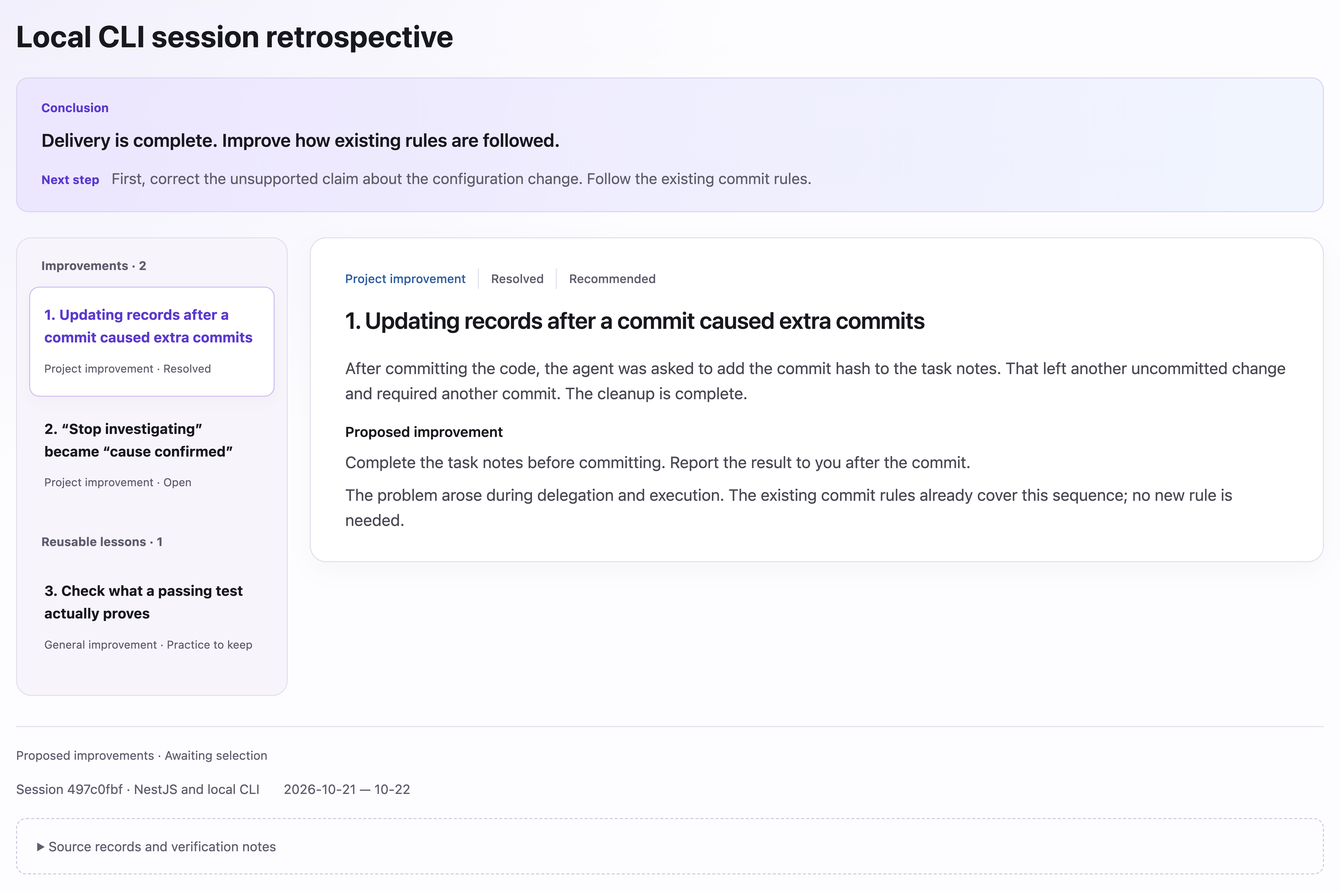
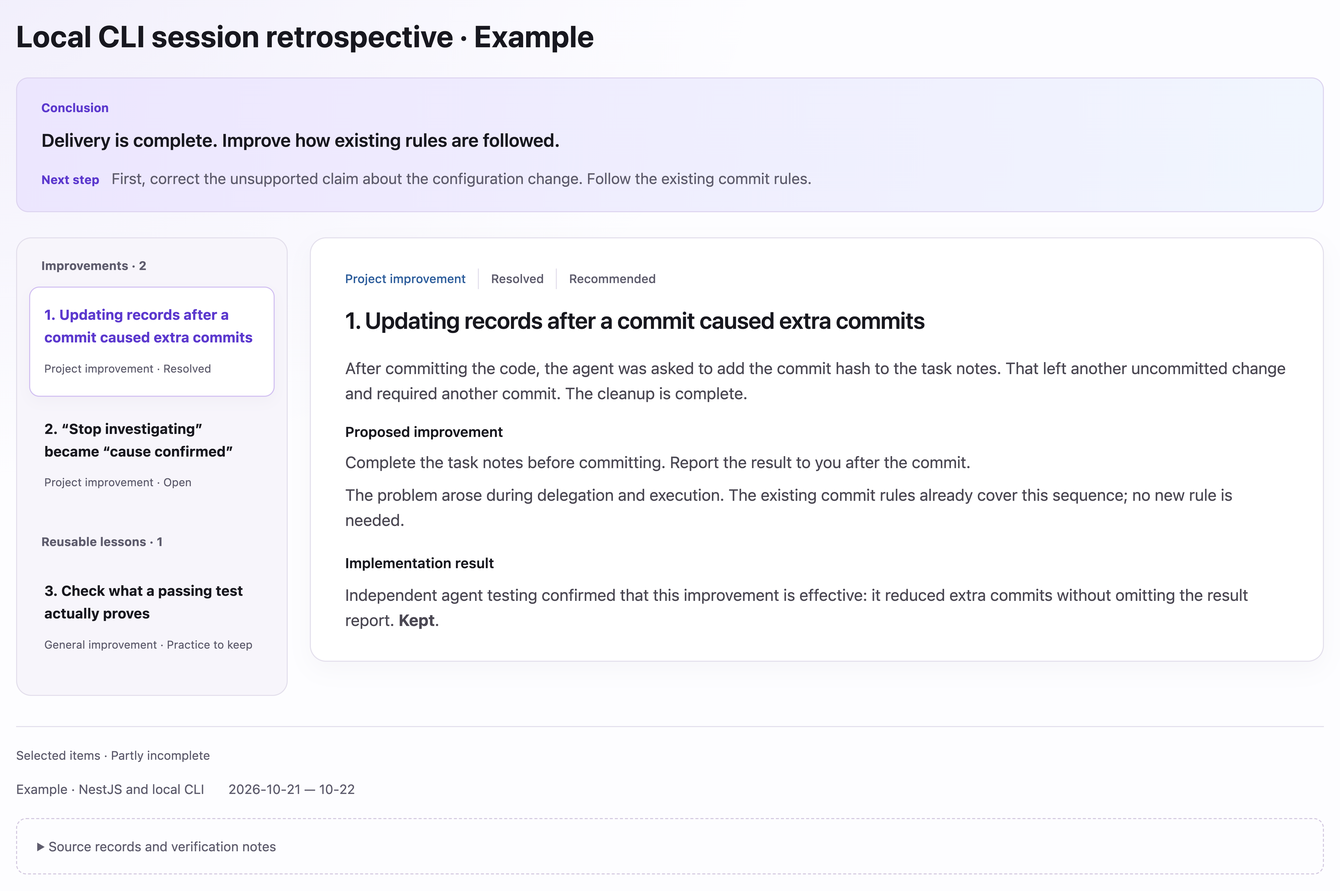
feat(retro): verify improvements and report outcomes

Changed region(s): [[0.2492, 0.6208, 0.9347, 0.7139], [0.0312, 0.838, 0.2492, 0.9001], [0.3427, 0.031, 0.4362, 0.0621]]

diff --git a/skills/engineering/td-coding-retro/assets/report-example.en.html b/skills/engineering/td-coding-retro/assets/report-example.en.html
@@ -7,7 +7,7 @@
       http-equiv="Content-Security-Policy"
       content="default-src 'none'; style-src 'unsafe-inline'; script-src 'unsafe-inline'; base-uri 'none'; form-action 'none'"
     />
-    <title>Local CLI session retrospective</title>
+    <title>Local CLI session retrospective · Example</title>
     <style>
       :root {
         color-scheme: light;
@@ -246,6 +246,7 @@
         border-left: 1px solid var(--line);
         padding-left: 12px;
       }
+      .implementation-result { margin-top: 18px; }
       .proposal-heading { display:flex; align-items:baseline; flex-wrap:wrap; gap:12px; margin-bottom:6px; }
       .proposal-heading h3 { font-size:14px; font-weight:600; }
       .proposal-heading span { font-size:12px; color:var(--muted); }
@@ -498,7 +499,7 @@
   <body>
     <main>
       <header class="report-header">
-        <h1>Local CLI session retrospective</h1>
+        <h1>Local CLI session retrospective · Example</h1>
       </header>
       <section class="banner" aria-labelledby="conclusion-heading">
         <h2 id="conclusion-heading">Conclusion</h2>
@@ -509,22 +510,22 @@
 <header class="detail-top"><div class="kicker"><span class="tag project">Project improvement</span><span class="tag state">Resolved</span><span class="tag verdict">Recommended</span></div>
 <h2 id="heading-1"><span class="item-number">1.</span> Updating records after a commit caused extra commits</h2><p>After committing the code, the agent was asked to add the commit hash to the task notes. That left another uncommitted change and required another commit. The cleanup is complete.</p></header>
 <div class="detail-body"><div class="proposal-heading"><h3>Proposed improvement</h3></div><p class="proposal">Complete the task notes before committing. Report the result to you after the commit.</p>
-<p class="rationale">The problem arose during delegation and execution. The existing commit rules already cover this sequence; no new rule is needed.</p></div></article><article class="detail" id="finding-2" aria-labelledby="heading-2">
+<p class="rationale">The problem arose during delegation and execution. The existing commit rules already cover this sequence; no new rule is needed.</p><section class="implementation-result" aria-label="Implementation result"><div class="proposal-heading"><h3>Implementation result</h3></div><p class="rationale">Independent agent testing confirmed that this improvement is effective: it reduced extra commits without omitting the result report. <strong>Kept</strong>.</p></section></div></article><article class="detail" id="finding-2" aria-labelledby="heading-2">
 <header class="detail-top"><div class="kicker"><span class="tag project">Project improvement</span><span class="tag state">Open</span><span class="tag verdict">Recommended</span></div>
 <h2 id="heading-2"><span class="item-number">2.</span> “Stop investigating” became “cause confirmed”</h2><p>The user said they had been using the apps and did not need further investigation. This does not establish that the configuration change was unrelated to the task.</p></header>
 <div class="detail-body"><div class="proposal-heading"><h3>Proposed improvement</h3></div><p class="proposal">Update the record to: “The source is unknown; the user chose not to investigate further.”</p>
-<p class="rationale">Correct the attribution in the current task overview to reflect the available evidence. No further investigation is proposed.</p></div></article><article class="detail" id="finding-3" aria-labelledby="heading-3">
+<p class="rationale">Correct the attribution in the current task overview to reflect the available evidence. No further investigation is proposed.</p><section class="implementation-result" aria-label="Implementation result"><div class="proposal-heading"><h3>Implementation result</h3></div><p class="rationale">Independent agent testing found this improvement ineffective: the revised record still presented an unknown cause as confirmed. <strong>Rolled back</strong>. The incorrect attribution still needs correction.</p></section></div></article><article class="detail" id="finding-3" aria-labelledby="heading-3">
 <header class="detail-top"><div class="kicker"><span class="tag">General improvement</span><span class="tag state">Practice to keep</span><span class="tag verdict">Recommended</span></div>
 <h2 id="heading-3"><span class="item-number">3.</span> Check what a passing test actually proves</h2><p>Independent verification found that concurrent test doubles returned identical results. A passing test could not establish that outputs stayed isolated.</p></header>
 <div class="detail-body"><div class="proposal-heading"><h3>Proposed improvement</h3></div><p class="proposal">Keep checking assertions against the intended behavior and use counterexamples to test their sensitivity.</p>
-<p class="rationale">Distinct execution data lets assertions detect mixed outputs. Use this example to explain the existing verification guidance.</p><section class="pattern" aria-label="Examples"><h3>Examples</h3>
+<p class="rationale">Distinct execution data lets assertions detect mixed outputs. Use this example to explain the existing verification guidance.</p><section class="implementation-result" aria-label="Implementation result"><div class="proposal-heading"><h3>Implementation result</h3></div><p class="rationale">An independent agent could not confirm effectiveness: no evidence showed that the new test detects mixed outputs. <strong>Rolled back</strong>.</p></section><section class="pattern" aria-label="Examples"><h3>Examples</h3>
 <p class="situation">Tests use doubles and need to establish isolation between executions.</p><div class="contrast"><div class="example negative"><h4>Counterexample</h4><p>Every execution returns the same ID and text, so assertions cannot distinguish the source.</p></div><div class="example positive"><h4>Positive practice — see evidence status</h4><p>Use distinct execution data and assertions against mixed outputs, then verify independently.</p></div></div>
 <dl class="boundaries"><dt>Evidence status</dt><dd>Session records contain the finding, the requested test changes and subsequent verification. Tests were not rerun for this report.</dd>
 <dt>Applicability</dt><dd>Applies to isolation tests; this does not justify adding the same check to every task.</dd></dl></section></div></article></div></div>
       <footer>
-        <p>Proposed improvements · Awaiting selection</p>
-        <div class="meta"><span>Session 497c0fbf · NestJS and local CLI</span><span>2026-10-21 — 10-22</span></div>
-        <details class="evidence"><summary>Source records and verification notes</summary><ul><li>1. F1 · Updating records after a commit caused extra commits：<a href="#evidence-item-E1">E1</a><small> · Retention: no addition; location: existing project commit rules</small></li><li>2. F2 · “Stop investigating” became “cause confirmed”：<a href="#evidence-item-E2">E2</a><small> · Retention: recommended; location: attribution in the current task overview</small></li><li>3. F3 · Check what a passing test actually proves：<a href="#evidence-item-E3">E3</a><small> · Retention: no addition; location: existing verification guidance</small></li></ul><article class="evidence-item" id="evidence-item-E1"><h3>E1 · Original excerpt</h3><p>s1-records.jsonl L944、L958、L989、L998</p><pre>Fill 07-submit.md with the actual commit hash and result. Do not push.</pre></article><article class="evidence-item" id="evidence-item-E2"><h3>E2 · Original excerpt</h3><p>s1-records.jsonl L756; attribution rewritten at L761</p><pre>全局配置变动那件事，还要你回复一下：09:58 前后、11:16 前后有没有用过 tcodex 或 Codex 应用。我一直在用，不用关心</pre></article><article class="evidence-item" id="evidence-item-E3"><h3>E3 · Original excerpt</h3><p>s1-records.jsonl L195; test changes requested at L210, subsequent verification at L790</p><pre>| AT1 isolation | Failed | UT3 passes. The IT2 concurrent case has no &quot;no cross-talk&quot; assertion |</pre></article></details>
+        <p>Selected items · Partly incomplete</p>
+        <div class="meta"><span>Example · NestJS and local CLI</span><span>2026-10-21 — 10-22</span></div>
+        <details class="evidence"><summary>Source records and verification notes</summary><p>Implementation results are constructed examples of wording and layout, not new tests of the historical project. Historical excerpts illustrate source attribution.</p><ul><li>1. F1 · Updating records after a commit caused extra commits：<a href="#evidence-item-E1">E1</a><small> · Retention: no addition; location: existing project commit rules</small></li><li>2. F2 · “Stop investigating” became “cause confirmed”：<a href="#evidence-item-E2">E2</a><small> · Retention: recommended; location: attribution in the current task overview</small></li><li>3. F3 · Check what a passing test actually proves：<a href="#evidence-item-E3">E3</a><small> · Retention: no addition; location: existing verification guidance</small></li></ul><article class="evidence-item" id="evidence-item-E1"><h3>E1 · Original excerpt</h3><p>s1-records.jsonl L944、L958、L989、L998</p><pre>Fill 07-submit.md with the actual commit hash and result. Do not push.</pre></article><article class="evidence-item" id="evidence-item-E2"><h3>E2 · Original excerpt</h3><p>s1-records.jsonl L756; attribution rewritten at L761</p><pre>全局配置变动那件事，还要你回复一下：09:58 前后、11:16 前后有没有用过 tcodex 或 Codex 应用。我一直在用，不用关心</pre></article><article class="evidence-item" id="evidence-item-E3"><h3>E3 · Original excerpt</h3><p>s1-records.jsonl L195; test changes requested at L210, subsequent verification at L790</p><pre>| AT1 isolation | Failed | UT3 passes. The IT2 concurrent case has no &quot;no cross-talk&quot; assertion |</pre></article></details>
       </footer>
     </main>
     <script>

diff --git a/skills/engineering/td-coding-retro/assets/report-example.html b/skills/engineering/td-coding-retro/assets/report-example.html
@@ -7,7 +7,7 @@
       http-equiv="Content-Security-Policy"
       content="default-src 'none'; style-src 'unsafe-inline'; script-src 'unsafe-inline'; base-uri 'none'; form-action 'none'"
     />
-    <title>本地 CLI 会话复盘</title>
+    <title>本地 CLI 会话复盘 · 示例</title>
     <style>
       :root {
         color-scheme: light;
@@ -246,6 +246,7 @@
         border-left: 1px solid var(--line);
         padding-left: 12px;
       }
+      .implementation-result { margin-top: 18px; }
       .proposal-heading { display:flex; align-items:baseline; flex-wrap:wrap; gap:12px; margin-bottom:6px; }
       .proposal-heading h3 { font-size:14px; font-weight:600; }
       .proposal-heading span { font-size:12px; color:var(--muted); }
@@ -498,7 +499,7 @@
   <body>
     <main>
       <header class="report-header">
-        <h1>本地 CLI 会话复盘</h1>
+        <h1>本地 CLI 会话复盘 · 示例</h1>
       </header>
       <section class="banner" aria-labelledby="conclusion-heading">
         <h2 id="conclusion-heading">本次结论</h2>
@@ -509,22 +510,22 @@
 <header class="detail-top"><div class="kicker"><span class="tag project">项目改进</span><span class="tag state">已处理</span><span class="tag verdict">推荐改进</span></div>
 <h2 id="heading-1"><span class="item-number">1.</span> 提交后补写编号，导致反复补提交</h2><p>Agent 提交代码后，又按要求把提交编号写进任务记录。记录因此再次出现未提交的修改，需要再提交一次。最后已经处理完毕。</p></header>
 <div class="detail-body"><div class="proposal-heading"><h3>改进方案</h3></div><p class="proposal">下次在提交前完成任务记录，提交后直接向你报告结果。</p>
-<p class="rationale">这次问题出在派发与执行环节。 现有提交规则已经要求这样做，因此不需要新增规则。</p></div></article><article class="detail" id="finding-2" aria-labelledby="heading-2">
+<p class="rationale">这次问题出在派发与执行环节。 现有提交规则已经要求这样做，因此不需要新增规则。</p><section class="implementation-result" aria-label="实施结果"><div class="proposal-heading"><h3>实施结果</h3></div><p class="rationale">经独立 Agent 验证，本项改进有效：减少了重复提交，且没有遗漏结果报告，<strong>已保留</strong>。</p></section></div></article><article class="detail" id="finding-2" aria-labelledby="heading-2">
 <header class="detail-top"><div class="kicker"><span class="tag project">项目改进</span><span class="tag state">未处理</span><span class="tag verdict">推荐改进</span></div>
 <h2 id="heading-2"><span class="item-number">2.</span> “不用追查”被写成“原因已查明”</h2><p>用户表示一直在使用相关应用、不必追查，不能据此证明配置变化与本任务无关。</p></header>
 <div class="detail-body"><div class="proposal-heading"><h3>改进方案</h3></div><p class="proposal">将记录改为“来源未确定，用户决定不再调查”。</p>
-<p class="rationale">只修正证据强度，不扩大调查。 建议修改当前任务 Overview 中的归因记录，不再调查配置变化。</p></div></article><article class="detail" id="finding-3" aria-labelledby="heading-3">
+<p class="rationale">只修正证据强度，不扩大调查。 建议修改当前任务 Overview 中的归因记录，不再调查配置变化。</p><section class="implementation-result" aria-label="实施结果"><div class="proposal-heading"><h3>实施结果</h3></div><p class="rationale">经独立 Agent 验证，本项改进无效：修改后的记录仍把未知原因写成确定结论，<strong>已回退</strong>。原记录的错误归因仍需修正。</p></section></div></article><article class="detail" id="finding-3" aria-labelledby="heading-3">
 <header class="detail-top"><div class="kicker"><span class="tag">通用改进</span><span class="tag state">经验保留</span><span class="tag verdict">推荐改进</span></div>
 <h2 id="heading-3"><span class="item-number">3.</span> 测试通过，还要检查它证明了什么</h2><p>独立验证发现：并发替身返回相同结果，测试通过也不能证明输出没有串线。</p></header>
 <div class="detail-body"><div class="proposal-heading"><h3>改进方案</h3></div><p class="proposal">保留按行为核对断言、用具体反例检查测试的做法。</p>
-<p class="rationale">可区分的执行数据，才能让断言发现输出串线。 无需为此增加验证规则；这个案例可用于解释已有验证规范。</p><section class="pattern" aria-label="正反例"><h3>正反例</h3>
+<p class="rationale">可区分的执行数据，才能让断言发现输出串线。 无需为此增加验证规则；这个案例可用于解释已有验证规范。</p><section class="implementation-result" aria-label="实施结果"><div class="proposal-heading"><h3>实施结果</h3></div><p class="rationale">经独立 Agent 核对，本项改进尚未证实有效：没有取得新测试能识别输出串线的证据，<strong>已回退</strong>。</p></section><section class="pattern" aria-label="正反例"><h3>正反例</h3>
 <p class="situation">测试使用替身，且需要证明多个执行互不干扰。</p><div class="contrast"><div class="example negative"><h4>反例</h4><p>所有执行返回相同标识和文本，断言无法区分结果来源。</p></div><div class="example positive"><h4>正向做法（以证据状态为准）</h4><p>后续补上可区分的执行数据与不串线断言，再独立复验。</p></div></div>
 <dl class="boundaries"><dt>证据状态</dt><dd>会话记录包含缺陷发现、补测要求及后续验证；本报告未重跑测试。</dd>
 <dt>适用边界</dt><dd>适用于隔离性测试；不能由此要求所有任务都增加同一种检查。</dd></dl></section></div></article></div></div>
       <footer>
-        <p>改进建议 · 待选择</p>
-        <div class="meta"><span>会话 497c0fbf · NestJS 与本地 CLI</span><span>2026-10-21 — 10-22</span></div>
-        <details class="evidence"><summary>原始记录与核验说明</summary><ul><li>1. F1 · 提交后补写编号，导致反复补提交：<a href="#evidence-item-E1">E1</a><small> · 沉淀：不新增；位置：项目现有提交规则</small></li><li>2. F2 · “不用追查”被写成“原因已查明”：<a href="#evidence-item-E2">E2</a><small> · 沉淀：推荐；位置：当前任务 Overview 的归因记录</small></li><li>3. F3 · 测试通过，还要检查它证明了什么：<a href="#evidence-item-E3">E3</a><small> · 沉淀：不新增；位置：已有验证规范</small></li></ul><article class="evidence-item" id="evidence-item-E1"><h3>E1 · 原文</h3><p>s1-records.jsonl L944、L958、L989、L998</p><pre>Fill 07-submit.md with the actual commit hash and result. Do not push.</pre></article><article class="evidence-item" id="evidence-item-E2"><h3>E2 · 原文</h3><p>s1-records.jsonl L756；归因改写见 L761</p><pre>全局配置变动那件事，还要你回复一下：09:58 前后、11:16 前后有没有用过 tcodex 或 Codex 应用。我一直在用，不用关心</pre></article><article class="evidence-item" id="evidence-item-E3"><h3>E3 · 原文</h3><p>s1-records.jsonl L195；补测要求 L210，后续验证 L790</p><pre>| AT1 isolation | Failed | UT3 passes. The IT2 concurrent case has no &quot;no cross-talk&quot; assertion |</pre></article></details>
+        <p>选定事项 · 部分未完成</p>
+        <div class="meta"><span>示例 · NestJS 与本地 CLI</span><span>2026-10-21 — 10-22</span></div>
+        <details class="evidence"><summary>原始记录与核验说明</summary><p>实施结果为构造的话术与版式示例，不表示重新测试了历史项目。历史摘录仅用于展示来源呈现方式。</p><ul><li>1. F1 · 提交后补写编号，导致反复补提交：<a href="#evidence-item-E1">E1</a><small> · 沉淀：不新增；位置：项目现有提交规则</small></li><li>2. F2 · “不用追查”被写成“原因已查明”：<a href="#evidence-item-E2">E2</a><small> · 沉淀：推荐；位置：当前任务 Overview 的归因记录</small></li><li>3. F3 · 测试通过，还要检查它证明了什么：<a href="#evidence-item-E3">E3</a><small> · 沉淀：不新增；位置：已有验证规范</small></li></ul><article class="evidence-item" id="evidence-item-E1"><h3>E1 · 原文</h3><p>s1-records.jsonl L944、L958、L989、L998</p><pre>Fill 07-submit.md with the actual commit hash and result. Do not push.</pre></article><article class="evidence-item" id="evidence-item-E2"><h3>E2 · 原文</h3><p>s1-records.jsonl L756；归因改写见 L761</p><pre>全局配置变动那件事，还要你回复一下：09:58 前后、11:16 前后有没有用过 tcodex 或 Codex 应用。我一直在用，不用关心</pre></article><article class="evidence-item" id="evidence-item-E3"><h3>E3 · 原文</h3><p>s1-records.jsonl L195；补测要求 L210，后续验证 L790</p><pre>| AT1 isolation | Failed | UT3 passes. The IT2 concurrent case has no &quot;no cross-talk&quot; assertion |</pre></article></details>
       </footer>
     </main>
     <script>

diff --git a/skills/engineering/td-coding-retro/assets/report.html b/skills/engineering/td-coding-retro/assets/report.html
@@ -246,6 +246,7 @@
         border-left: 1px solid var(--line);
         padding-left: 12px;
       }
+      .implementation-result { margin-top: 18px; }
       .proposal-heading { display:flex; align-items:baseline; flex-wrap:wrap; gap:12px; margin-bottom:6px; }
       .proposal-heading h3 { font-size:14px; font-weight:600; }
       .proposal-heading span { font-size:12px; color:var(--muted); }
@@ -508,7 +509,7 @@
       <aside class="limits"><h2>结论边界</h2><ul><li>{{影响判断的具体缺口}}</li></ul></aside>
       <div class="workbench">
         <nav class="item-nav" aria-label="选择复盘事项">
-          <!-- 按需复制组和 choice；经验组标题用“可复用经验”。编号跨组连续。 -->
+          <!-- 先分组排序再连续编号；已处理仍归改进事项，仅经验保留归可复用经验。编号跨组不重置。 -->
           <div class="nav-group"><h2>改进事项 · {{本组数量}}</h2>
             <a class="choice" href="#finding-1" aria-controls="finding-1"><strong><span class="item-number">1.</span> {{发现标题}}</strong><small>{{通用改进或项目改进}} · {{处理状态}}</small></a>
           </div>
@@ -525,6 +526,11 @@
               <div class="proposal-heading"><h3>改进方案</h3></div>
               <p class="proposal">{{具体建议}}</p>
               <p class="rationale">{{推荐或不推荐的原因，以及是否新增内容、写入何处}}</p>
+              <!-- 选定事项实施后填写；首次提出建议时删除整个 implementation-result。 -->
+              <section class="implementation-result" aria-label="实施结果">
+                <div class="proposal-heading"><h3>实施结果</h3></div>
+                <p class="rationale">{{实际验证方法与明确结论，如“经独立 Agent 验证，本项改进有效”}}：{{具体效果及必要的范围限制}}，<strong>{{已保留、已回退或验证未完成}}</strong>。</p>
+              </section>
               <!-- 无正反例时删除整个 pattern；只有一侧时删除另一侧 example。 -->
               <section class="pattern" aria-label="正反例"><h3>正反例</h3>
                 <p class="situation">{{适用情境}}</p>

diff --git a/skills/engineering/td-coding-retro/references/verify-improvements.md b/skills/engineering/td-coding-retro/references/verify-improvements.md
@@ -1,0 +1,54 @@
+# 改进效果验证
+
+用户选定报告事项后使用。目标是检验改动是否改善预期行为，并据此决定保留或回退。
+
+## 实施前
+
+逐项记录报告身份与编号、问题证据、改动位置、预期改善、通过标准、必须保留的行为、验证方法和回退范围。简单改动可以用几行记录，不另建整套任务模板；目标项目已有任务记录时沿用。
+
+标准在实施前确定，描述可观察的结果。例如：复现“提交后又改任务记录”的场景时，Agent 应在提交前完成记录，提交后无需再改受跟踪文件；同时仍能交代实际提交结果。不能把“新增一条规则”作为效果标准。
+
+证据是否充分，以预定标准、必要约束和本次宣称的效果范围判断。隔离场景已满足全部标准时，可报告该场景验证通过；只有具体未覆盖风险会影响结论时才补充验证。生产观察、长期跟踪和跨项目泛化按本项需要选择，不能为追求完整而事后增加门槛。恢复时发现标准是事后补定的，记录这一事实，并说明判断依据。
+
+保留涉及文件的改前副本或可定位版本，以及本次差异。回退只撤销本项改动，保留用户和其他任务的修改；重叠而无法安全拆开时报告具体冲突。多项改动有依赖时预先说明联合验证与回退范围，授权仍按用户选定事项核对。
+
+在看到验证结果前区分两种性质，并写明依据：
+
+- **实验性改进**：待验证收益的提示、组织方式、规则或流程调整。
+- **必要修正**：恢复已批准要求、修复已证实缺陷或满足明确安全约束。不能只因作者偏好标为必要。
+
+## 独立验证
+
+使用新上下文中的独立 Agent；切换作者口吻不算独立。给它选定事项、必要原始证据、预先确定的标准、改前版本、实际差异及相关项目材料；提供检查所需事实，不提供作者的成功判断。记录实际调用或会话标识、所检版本、方法、原始结果和结论，支持后续核对。
+
+选择足以检验预期行为的方法。复现原问题情境，并加入能暴露误用或副作用的场景；以实际输出、执行轨迹或可核对的产物判断。仅阅读新规则后说“看起来合理”，属于审查，不能证明行为已经改善。确定性缺陷可以用针对性检查直接验证；文本表达改善可以检查独立读者的理解和后续操作。
+
+需要比较效果时，可选 A/B：新旧版本使用相同原始任务材料和初始条件，在互不继承历史的上下文中运行；控制模型、工具和资源等条件，并记录无法控制的差异。用于设计的样例与新增验证样例分开记录；旧样例复测只能支持回归结论，不能证明泛化效果。存在明显随机性时增加独立运行，不把一次有利输出当作稳定收益。
+
+需要降低评审偏见时，隐藏候选来源和新旧身份、随机排列输出，再由独立评审按既定标准判断。若生成者也不知道版本身份，才称双盲；实际只能做到评审盲测时如实命名。A/B 和盲评均为可选方法，选用理由取决于本项验证需要。
+
+验证环境遵循目标项目的权限和分工；可使用隔离副本、模拟场景或获准的检查命令。独立上下文不等于环境隔离，不因此授权访问生产、修改真实数据或执行外部操作。
+
+## 决定保留还是回退
+
+| 结果 | 处理 |
+| --- | --- |
+| 达到通过标准，必要约束未退步 | 保留，说明具体改善及证据适用范围 |
+| 未改善或造成退步 | 撤销本项实现，核对回退结果；必要要求仍需满足，范围内可修复复验，不能恢复已知缺陷后声称完成 |
+| 证据不足 | 针对缺口补充验证；仍不足时，实验性改进回退，必要修正保留并明确已验证部分及剩余不确定性 |
+
+每项至多先补充一轮针对性验证或范围内修复；仍无结论或仍失败时按表处理并汇报。需要扩大范围、降低标准、额外权限或改换方案时交用户决定。标准确需改变时说明原因，按目标规则确认后重新验证。
+
+缺少独立 Agent、原始记录或必要运行条件，都属于验证未完成，不能宣称有效。必要修正的保留不等于验证通过；存在已证实退步时不能以“必要”为由保留失败实现。
+
+## 汇报
+
+用户选定的每个编号都有结果：已改进并保留、已回退、必要修正已保留但验证未完成，或因具体冲突无法安全处理。各用一句话说明依据，详细轨迹按需查阅。不得把所有“文件已改完”统一报成“改进有效”；全部选定事项处理后，再交用户选择是否尝试其他方案。
+
+更新原 HTML 报告前保留副本，读取现有内容和用户修改。保持原编号、发现、提案及历史处理状态，在选定事项的详情内补“实施结果”，先明确验证方法和有效性结论，再说具体效果与处理结果。例如：“经独立 Agent 验证，本项改进有效：减少了重复提交，且没有遗漏结果报告，已保留。”实际使用 A/B 或盲评时写对应方法，没有执行的方法不能列入；验证未完成时直接说明缺什么证据。完整调用标识、所检版本、原始结果与回退核对记录放到底部折叠区；记录本轮处理时间，保留原会话日期。无结果的事项不添加占位说明。
+
+结果句按“验证方法，本项改进有效／无效／尚未证实有效：具体效果或缺口，处理状态。”组织，先给结论，再解释。必要修正因环境缺失而未验证时用第三种。引用已有独立验证记录时可以写“根据已有独立 Agent 验证记录”，不能把他人执行写成本轮重跑。只读评审中拟写的“已保留／已回退”属于操作完成后的文案，实际处置未完成前标为待执行，不能直接发布为完成结果。
+
+保留项说明“哪些证据支持在什么范围内有效，因此保留”，必要修正证据未全时明确尚待验证。回退项区分“测试发现无改善或退步”与“证据不足、尚未证实有效”，分别交代原因；不能把证据不足写成已证明无效，也不能把预设样例中的有效前提当成本轮实验发现。正文沿用既有样式，开头验证方法与有效性结论、具体效果都用正常字重，仅句末“已保留／已回退／验证未完成”用 strong 加粗。标题只写“实施结果”，不另加标签、色块或徽章。
+
+同步顶部结论与页尾选择状态，使已完成、已回退和待处理事项准确对应；结果混合时逐项说明，不把已回退的事项计为已改进。保留模板样式和交互，重新检查切换与折叠。终端仅通知“第 1、3 项已改进，第 5 项已回退”及报告路径；存在未完成验证或冲突时同时简短点明。用户明确只需终端汇报时遵从。

diff --git a/skills/engineering/td-coding-retro/references/report-format.md b/skills/engineering/td-coding-retro/references/report-format.md
@@ -8,7 +8,7 @@
 2. **工作台**：左侧列出全部发现，按“改进事项”“可复用经验”分组，各组按重要性排序，按页面顺序连续编号 1、2、3…，跨组不重置。列表、详情和底部证据映射使用相同编号；编号对应本份报告，不能在用户选择后重新排序或套用另一份报告的编号。处理状态为“经验保留”的归后者，其余归前者；分类仍独立表示通用／项目。右侧依次显示：分类与状态 → 发现与影响 → 建议改进 → 为什么、沉淀建议及落点 → 正反例（如有）。正反例包含情境、证据状态和适用边界，保留单侧例子；不把待验证建议写成有效经验。同一发现只出现一次，不为填满两组而重复。
 3. **底部核验区**：一个默认折叠的“原始记录与核验说明”，集中保存发现与证据的对应关系、来源、原文或摘要，以及必要的核验过程说明。正文不出现日志编号或技术原文；会影响判断的限制和证据状态仍在正文可见。
 
-正文每句话必须帮助理解或选择。删除重复的品牌栏、页面身份和免责声明；报告标题已说明复盘，不再重复“会话复盘／本次复盘”。页尾仅用“改进建议 · 待选择”提示状态。样稿声明、常规的“本次未重跑测试”等无助于判断的过程信息不写入报告；若缺少验证确实影响某项结论，应直接在该项说明具体不确定性。
+正文每句话必须帮助理解或选择。删除重复的品牌栏、页面身份和免责声明；报告标题已说明复盘，不再重复“会话复盘／本次复盘”。首次汇报时，页尾用“改进建议 · 待选择”提示状态；实施后按实际结果更新为“选定事项 · 已处理”或“选定事项 · 部分未完成”，各项保留、回退或未完成的详情以正文为准。样稿声明、常规的“本次未重跑测试”等无助于判断的过程信息不写入报告；若缺少验证确实影响某项结论，应直接在该项说明具体不确定性。
 
 固定使用 B 工作台的白底、紫色主色、蓝色项目标签及粉／蓝正反例区。详情按一段短文阅读：标题 → 发生了什么 → 建议 → 原因 → 沉淀落点。正文同字号、同左边线；用连续段落解释事实、建议与理由，是否推荐与分类、处理状态集中放在详情顶部。方案前仅显示小号加粗的“改进方案”；理由与沉淀决定继续用自然段，不恢复一排加粗字段。标题是唯一的大字焦点。分类与状态用轻量文字。不用竖线、色块、横线或表单列切断阅读，也不把建议再做成第二个大标题。沿用模板布局，不添加 Demo 切换器或宣传性标题。无发现时明确写没有；只有经验、没有正反例、只有单侧例子时照实显示。所有数据预先写入 HTML；内置脚本只切换详情，不联网、不保存用户状态；脚本禁用时按顺序显示全部详情，打印也保留全部发现。
 
@@ -22,9 +22,11 @@
 
 1. 复制 [固定模板](../assets/report.html) 到系统临时目录的新文件，例如 `coding-retro-<timestamp>.html`；用户指定位置时使用该位置。保留已有报告，不覆盖。可以参考 [完整示例](../assets/report-example.html) 的结构，不复制其事实。
 2. 直接替换模板里的 `{{…}}` 文本，按发现数量复制导航项和详情卡。保留 CSS 和末尾的切换脚本，不重新设计布局，也不引入生成器、JSON 中间文件或外部 CDN。
-3. 按页面顺序编排改进事项和可复用经验，跨组从 1 连续编号。每项的导航 `href`、`aria-controls`、详情 `id`、`aria-labelledby`、标题编号及证据映射必须对应；ID 不重复。通用改进使用 `class="tag"`，项目改进使用 `class="tag project"`。
-4. 删除不适用的可选区块和所有填写提示。无发现时将整个 workbench 替换为 `<p class="empty">本次未发现需要提出的改进项。</p>`；无实质缺口时删除 limits；无正反例时删除 pattern，只有单侧时删除另一侧。没有证据且没有发现时可以删除底部 details。所有详情初始不加 hidden，底部 details 不加 open。
+3. 先分组排序，再按最终页面顺序从 1 连续编号，跨组不重置。“已处理”的发现仍归改进事项；只有处理状态为“经验保留”的事项归可复用经验，不能仅因问题已修复就改分组。每项的导航 `href`、`aria-controls`、详情 `id`、`aria-labelledby`、标题编号及证据映射必须对应；ID 不重复。通用改进使用 `class="tag"`，项目改进使用 `class="tag project"`。
+4. 删除不适用的可选区块和所有填写提示。无发现时将整个 workbench 替换为 `<p class="empty">本次未发现需要提出的改进项。</p>`；无实质缺口时删除 limits；无正反例时删除 pattern，只有单侧时删除另一侧；首次提出建议时删除 implementation-result。没有证据且没有发现时可以删除底部 details。所有详情初始不加 hidden，底部 details 不加 open。
 5. 打开成品检查页面和交互，再交付绝对文件路径。报告可直接用浏览器离线打开。
+
+选定事项实施后，按 [验证结果汇报](verify-improvements.md#汇报) 更新原报告。详情中的“实施结果”只在有实际处理结果时保留，直接显示实际验证方法、观察结果和保留或回退的原因；原始会话的处理状态与本轮改进结果分别记录。
 
 ### 内容与安全
 

diff --git a/skills/engineering/td-coding-retro/README.md b/skills/engineering/td-coding-retro/README.md
@@ -44,3 +44,5 @@ Implement items 1, 3 and 5. Leave the others unchanged.
 ```
 
 The agent uses the selected items to improve the project's **Harness**: collaboration rules, workflows, templates or automated checks. Reusable methods and examples go into the relevant shared collaboration resources.
+
+An agent in a separate context then checks effectiveness to decide whether to keep or roll back each change. The method, observed effects and outcome are added to the original HTML report, with a brief notification in the terminal.
